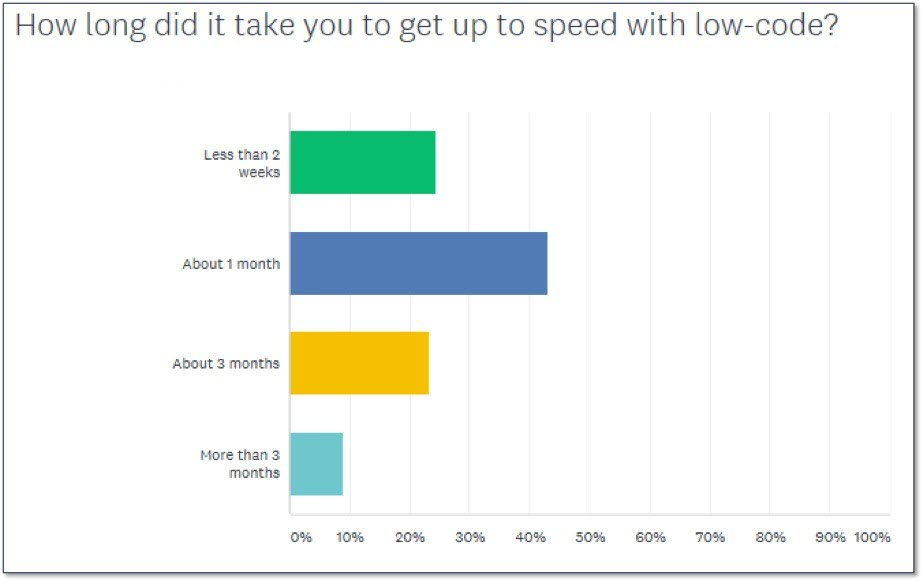
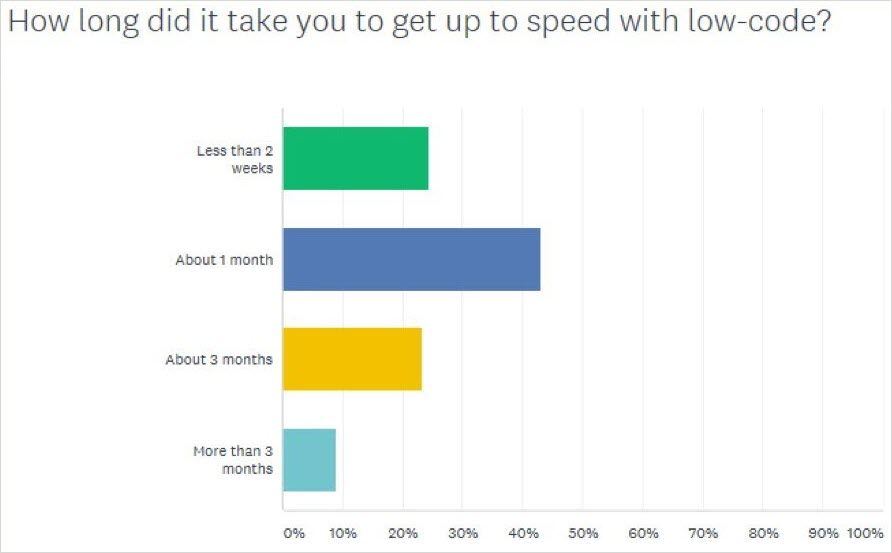
Review

Changed region(s): [[0.0, 0.0, 1.0, 1.0]]

diff --git a/content/evaluation-guide/evaluation-learning/skills-training.md b/content/evaluation-guide/evaluation-learning/skills-training.md
@@ -38,7 +38,7 @@ That being said, you can use any available programming skills to extend an app w
 
 With Mendix, you can build your first application in 30 minutes. Right after you create your account, you will be guided into the platform to build your first app.
 
-To continue learning, you can follow the [Become a Rapid Developer Learning Path](https://gettingstarted.mendixcloud.com/link/path/31) online at your own pace, free of charge. There are 11 modules in this learning path, which take about an hour each to complete. So, you could complete all the modules in a day or two, and then start building applications straightaway.
+To really ramp up your learning, you can follow the [Become a Rapid Developer Learning Path](https://gettingstarted.mendixcloud.com/link/path/31) online at your own pace, free of charge. There are 11 modules in this learning path, which take about an hour each to complete. So, you could complete all the modules in a day or two, and then start building applications straightaway.
 
 There is no time limit to complete a Mendix learning path, which allows you to work through everything in your own time. The modules have individual learning units, each of which take a few minutes to complete. In addition, each module has a knowledge check to verify your understanding and highlight any areas you might need to review again.
 
@@ -48,45 +48,47 @@ The option to register for a three-day [classroom course](https://gettingstarted
 
 Based on a survey conducted amongst developers about learning low code, we got these answers: 
 
+{{% image_container width="550" %}}
 ![](attachments/survey.jpg)
+{{% /image_container %}}
 
 Because the Mendix Platform provides extensive capabilities and does [monthly releases](https://www.mendix.com/releases/) with new features, Mendix users never actually stop learning!
 
 ## 4 What Are the Mendix Training Options? {#training-options}
 
-To learn Mendix you can use the free online courses provided by Mendix Academy, follow a regular classroom course or webinars. The [Mendix Academy](https://gettingstarted.mendixcloud.com/) is fully integrated in the platform with in-product [guided introduction tours](#git), and provides multiple learning paths to onboard all the kinds of Mendix Platform users.
+To learn Mendix, you can use the free online courses provided by Mendix Academy, attend a regular classroom course, and participate in live webinars. The [Mendix Academy](https://gettingstarted.mendixcloud.com/) is fully integrated in the platform with an in-product [guided introduction tour](#git), and provides multiple learning paths to onboard all Mendix Platform users.
 
-The online Mendix learning paths have a modular setup, so you can start at any point, go through the content at your own pace, and follow or skip modules based on your needs. The Academy [Learning paths](#lp-m) are adjusted for various experience levels, so you can choose between Beginner, Rapid, and Advanced paths. This online  content is available for free, and you do not even need to have a Mendix account to use it.
+The online Mendix learning paths have a modular setup, so you can start at any point, go through the content at your own pace, and follow or skip modules based on your needs. The [Academy learning paths](#lp-m) are adjusted for various experience levels, so you can choose between **Beginner**, **Rapid**, and **Advanced** paths. This online  content is available for free, and you do not even need to have a Mendix account to use it.
 
-Next to that, Mendix offers regular [classroom courses](#classroom) that align with the online learning paths.
+In addition, Mendix offers regular [classroom courses](#classroom) that align with the online learning paths.
 
 ### 4.1 Guided Introduction Tour {#git}
 
-Mendix provides a guided product introduction tour of the platform starting in the Web Modeler IDE. When you are creating a new app from the Mendix Developer Portal and and you select **Start Your First App** in the **Introduction Tour** tab, the guided tour will open right in the Web Modeler. This tour will show you around the product while also helping you to build an actual app. You can choose to perform the steps yourself or ask the guidance to do them for you.
+Mendix provides a guided product introduction tour of the platform starting in the Web Modeler IDE. When you are creating a new app from the Mendix Developer Portal and you select **Start Your First App** in the **Introduction Tour** tab, the guided tour will open right in the Web Modeler. This tour will show you around the product while also helping you to build an actual app. You can choose to perform the steps yourself or ask the guidance to do them for you.
 
 <video controls  src="attachments/guidance_do.mp4">VIDEO</video>
 
 ### 4.2 Academy
 
-You can learn how to use the Mendix Platform without ever having to leave it. To follow a structured path to learn Mendix, navigate directly to the [Mendix Academy](https://gettingstarted.mendixcloud.com/link/home), where you can explore new territory in your current role or even start a new career.
+You can learn how to use the Mendix Platform without ever having to leave it. To follow a structured path to learn Mendix, navigate directly to the [Mendix Academy](https://gettingstarted.mendixcloud.com/link/home), where you can explore new development territory in your current role or even start a new career.
 
 The Mendix Academy provides the training options described below.
 
-#### 4.2.1 Learning Paths and Modules {#lp-m}
+#### 4.2.1 Learning Paths & Modules {#lp-m}
 
-When you want to pioneer a way forward, it's good to start with a path. The Mendix [learning paths](https://gettingstarted.mendixcloud.com/link/path) guide you through modules that build your skills. These paths teach you everything from the fundamentals of how to build a Mendix app to how to improve your UX skills, from how to implement security in your apps to how to handle errors, and from how to configure model logic in your apps to how to track your app's behavior.
+When you want to pioneer a way forward, it's good to start with a path. The Mendix [learning paths](https://gettingstarted.mendixcloud.com/link/path) guide you through various learning modules that build your skills. These paths teach you everything from the fundamentals of how to build a Mendix app to how to improve your UX skills, from how to implement security in your apps to how to handle errors, and from how to configure app model logic to how to track your app's behavior.
 
-The learning paths take you from different starting points, levels, and roles to new stages of Mendix knowledge. Want to get started with the Mendix Platform in less than one hour? The [Start with a Blank App](https://gettingstarted.mendixcloud.com/link/path/14) learning path guides you through the Web Modeler and helps you to build your first app. Want to work on a Mendix development team? The [Become a Rapid Developer](https://gettingstarted.mendixcloud.com/link/path/10) learning path takes you through the key lessons for starting your Mendix development career.
+The learning paths take you from different starting points, levels, and roles to new stages of Mendix knowledge. Want to get started with the Mendix Platform in less than one hour? The [Start with a Blank App learning path](https://gettingstarted.mendixcloud.com/link/path/14) guides you through the Web Modeler and helps you to build your first app. Want to work on a Mendix development team? The [Become a Rapid Developer learning path](https://gettingstarted.mendixcloud.com/link/path/10) takes you through the key lessons for starting your Mendix development career.
 
 <video controls  src="attachments/learning-path.mp4">VIDEO</video>
 
 The ultimate destination for each learning path is [certification](https://gettingstarted.mendixcloud.com/link/certification). Soon enough, you will be able to follow one of the advanced learning paths to take your career to the next level by specializing in one topic, or you can master them all to get certified as an [Advanced Developer](certification-talent#get-certified).
 
-Each learning path contains various [modules](https://gettingstarted.mendixcloud.com/link/module) you need to complete. Each module contains theory and assignment units as well as knowledge checks. You can start these whenever you want to learn more about a specific topic.
+Each learning path contains various [modules](https://gettingstarted.mendixcloud.com/link/module) that you need to complete. Each module contains theory and assignment units as well as knowledge checks. You can start these whenever you want to learn more about a specific topic.
 
 #### 4.2.2 Classroom Courses {#classroom}
 
-Mendix offers regular [classroom courses](https://gettingstarted.mendixcloud.com/link/classroom) that align with the online learning paths, giving you a hands-on training experience. To start with the fundamentals, sign up for the [Rapid Developer Classroom Course](https://gettingstarted.mendixcloud.com/link/classroom/rapid). To take your skills to the next level and drive digital innovation, check out the [Advanced Developer Classroom Course](https://gettingstarted.mendixcloud.com/link/classroom/advanced).
+Mendix offers regular [classroom courses](https://gettingstarted.mendixcloud.com/link/classroom) that align with the online learning paths, giving you a hands-on training experience. To start with the fundamentals, sign up for the [Rapid Developer Classroom Course](https://gettingstarted.mendixcloud.com/link/classroom/rapid). Then, to take your skills to the next level and drive digital innovation, check out the [Advanced Developer Classroom Course](https://gettingstarted.mendixcloud.com/link/classroom/advanced).
 
 There are Mendix offices in Boston, Rotterdam, and London where you can receive hands-on training from an experienced team of Mendix Academy Experts. Depending on the amount of students, Mendix can provide on-site training as well.
 
@@ -94,10 +96,14 @@ There are Mendix offices in Boston, Rotterdam, and London where you can receive 
 
 Mendix provides a free series of live and interactive [webinars](https://gettingstarted.mendixcloud.com/link/webinar) that will help you to understand the inner-workings of the platform. The wide range of webinar topics include UX, Java, REST integration, QA, mobile, and performance. Whether you are just getting started with Mendix or you are a veteran developer, there’s something for everyone.
 
+{{% image_container width="550" %}}
 ![](attachments/webinars.png)
+{{% /image_container %}}
 
 ### 4.3 Documentation
 
-You can browse all the documentation for the Mendix Platform on the [Mendix documentation site](https://docs.mendix.com). Here you can find how to's, reference guide material, API and SDK documentation, and content on all the other components of the platform.
+You can browse all the documentation for the Mendix Platform on the [Mendix documentation site](https://docs.mendix.com). Here you can find release notes, how to's, reference guide material, API and SDK documentation, and content on all the other components of the platform.
 
+{{% image_container width="550" %}}
 ![](attachments/docs.png)
+{{% /image_container %}}
